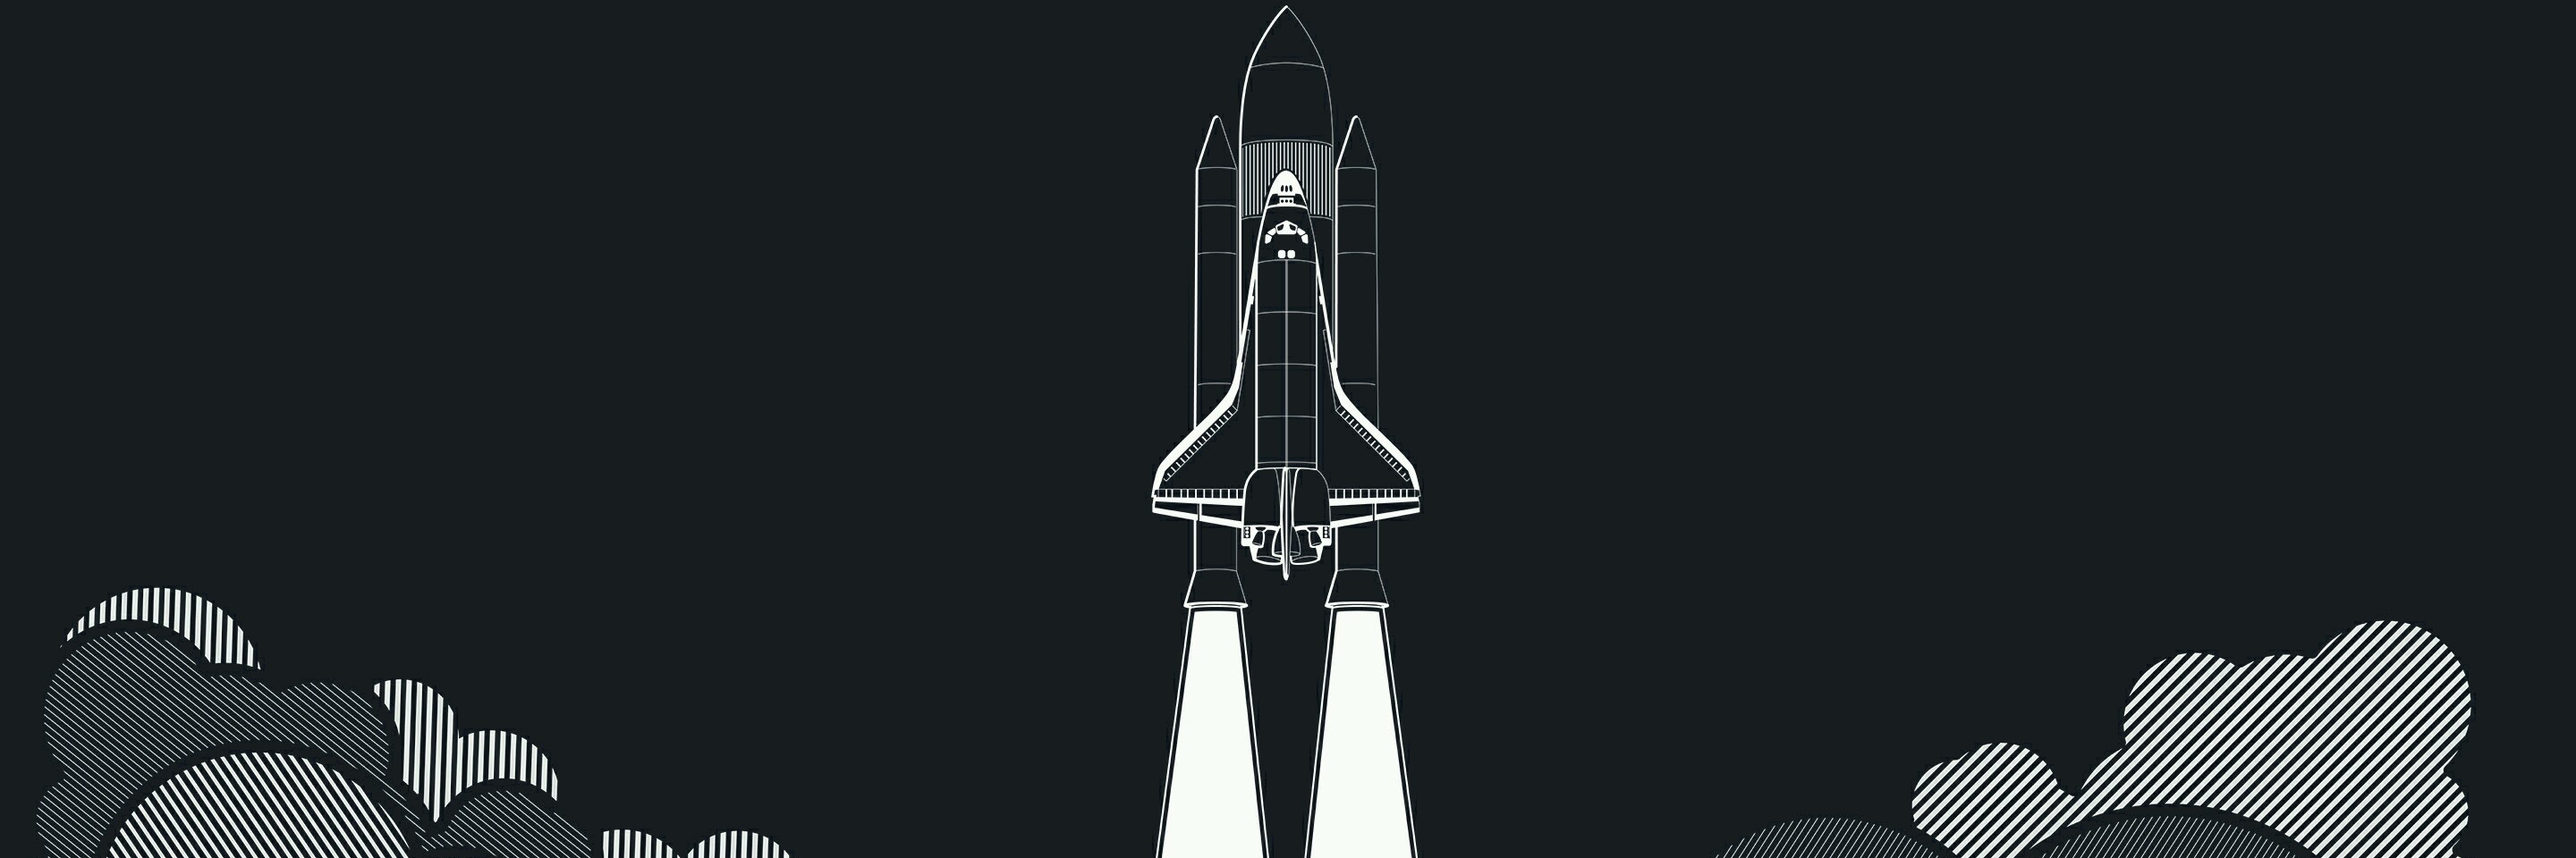
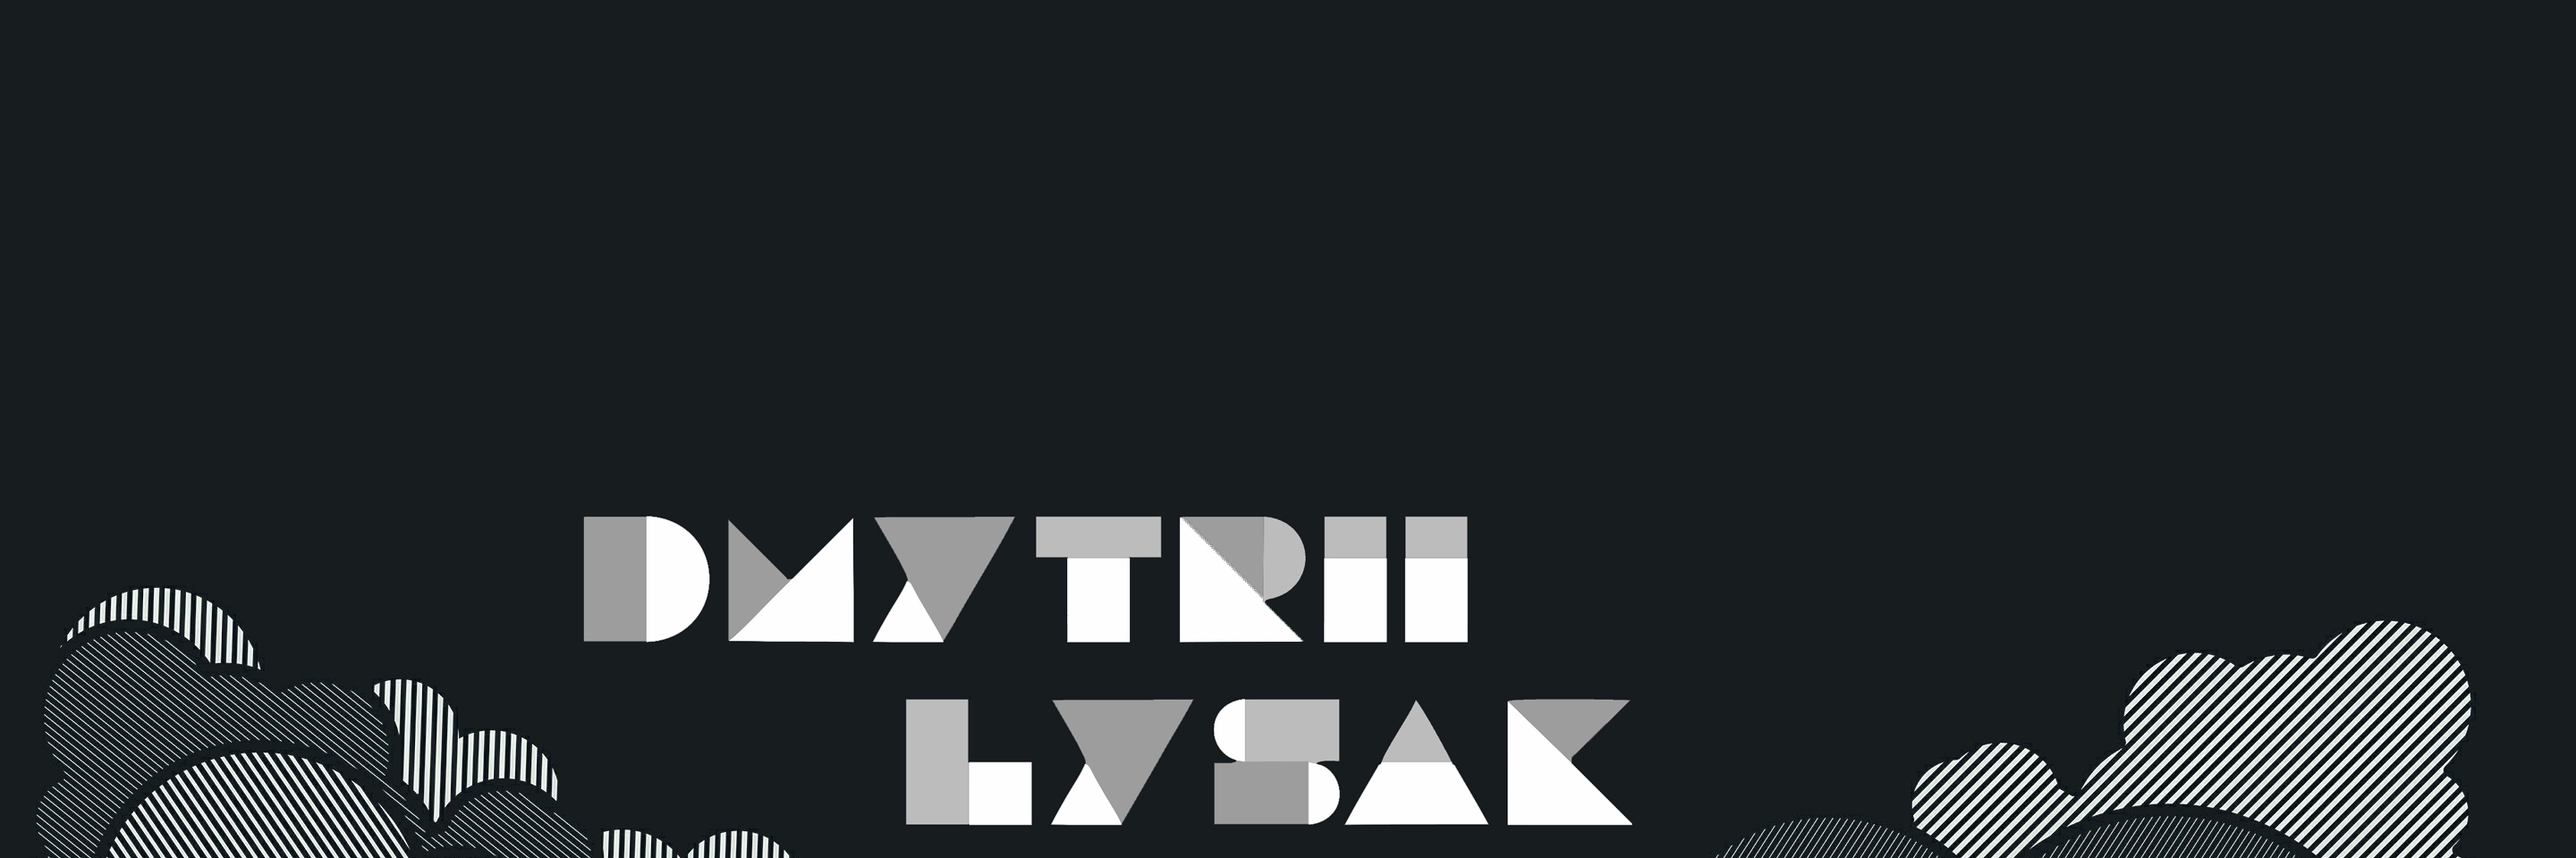
update 2017

Changed region(s): [[0.2188, 0.5, 0.6562, 1.0], [0.4688, 0.1562, 0.5312, 0.5]]

diff --git a/assets/vk.html b/assets/vk.html
@@ -1,0 +1,119 @@
+<!DOCTYPE html>
+<html>
+<head>
+    <title>IGR VkBirthdayExporter</title>
+    <style type="text/css">
+    #vkLogin{float: left}
+    #author{float: right}
+    #export{width: 100%}
+    </style>
+    <script src="http://vkontakte.ru/js/api/openapi.js" type="text/javascript"></script>
+    <script language="javascript">
+    var Base64 = {
+        // private property
[1 lines of base64/hex data omitted]
+
+        // public method for encoding
+        encode : function (input) {
+            var output = "";
+            var chr1, chr2, chr2raw, chr3, chr3raw, enc1, enc2, enc3, enc4;
+            var i = 0;
+
+            //input = Base64._utf8_encode(input);
+
+            while (i < input.length) {
+
+                    chr1 = input.charCodeAt(i++) & 0xFF;
+                    chr2 = isNaN(chr2raw = input.charCodeAt(i++)) ? NaN : (chr2raw & 0xFF);
+                    chr3 = isNaN(chr3raw = input.charCodeAt(i++)) ? NaN : (chr3raw & 0xFF);
+
+                    enc1 = chr1 >> 2;
+                    enc2 = ((chr1 & 3) << 4) | (chr2 >> 4);
+                    enc3 = ((chr2 & 15) << 2) | (chr3 >> 6);
+                    enc4 = chr3 & 63;
+
+                    if (isNaN(chr2)) {
+                            enc3 = enc4 = 64;
+                    } else if (isNaN(chr3)) {
+                            enc4 = 64;
+                    }
+
+                    output = output +
+                    this._keyStr.charAt(enc1) + this._keyStr.charAt(enc2) +
+                    this._keyStr.charAt(enc3) + this._keyStr.charAt(enc4);
+
+            }
+
+            return output;
+        }
+    }
+    function Init()
+    {
+        VK.init({apiId: 4962182});
+        VK.UI.button("vkLogin");
+    }
+    function icsEvent(info)
+    {
+        var s = 'BEGIN:VEVENT\n';
+        for(var i in info)
+            s += i+':'+info[i]+'\n';
+        s += 'END:VEVENT\n';
+        return s;
+    }
+    function zeroPrefix(num)
+    {
+        return (num < 10) ? '0' + num : num;
+    }
+    function authInfo(response)
+    {
+        if(!response.session) return;
+        
+        VK.api('friends.get', {fields: 'first_name,last_name,bdate'}, function(data){
+            var exportData = 'BEGIN:VCALENDAR\nPRODID:IGR VkFriendExporter\nVERSION:2.0\n';
+            
+            data = data.response;
+            for(var i in data)
+            if(data[i].bdate)
+            {
+                var info = data[i];
+                
+                var bdparts = info.bdate.split('.');
+                bdparts[0] = zeroPrefix(bdparts[0]);
+                bdparts[1] = zeroPrefix(bdparts[1]);
+                if(!bdparts[2]) bdparts[2] = 2000;
+                
+                var now = new Date();
+                exportData += icsEvent({
+                    DTSTART    : bdparts.reverse().join(''),
+                    RRULE      : 'FREQ=YEARLY',
+                    UID        : 'vk'+info.uid,
+                    DTSTAMP    : ''
+                                 +now.getUTCFullYear()
+                                 +zeroPrefix(now.getUTCMonth()+1)
+                                 +zeroPrefix(now.getUTCDate())
+                                 +'T'
+                                 +zeroPrefix(now.getUTCHours())
+                                 +zeroPrefix(now.getUTCMinutes())
+                                 +zeroPrefix(now.getUTCSeconds())
+                                 +'Z',
+                    SUMMARY    : info.first_name+' '+info.last_name,
+                    CLASS      : 'PRIVATE',
+                    URL        : 'http://vkontakte.ru/id'+info.uid,
+                    CATEGORIES : 'Friends,Birthdays',
+                    TRANSP     : 'TRANSPARENT'
+                });
+            }
+        
+            exportData += 'END:VCALENDAR\n';
+        
+            document.getElementById('export').value = exportData;
+        });
+    }
+    </script>
+</head>
+<body onload="Init()">
+    <div id="vkLogin" onclick="VK.Auth.login(authInfo, 2)">Fetch</div><div id="author">Author: <a href="mailto:dlysak@live.com">Dmytrii Lysak</a></div>
+<textarea id="export" name="export" rows="30"></textarea><br />
+<input type="button" onclick="location.href='data:application/force-download;base64,'+Base64.encode(document.getElementById('export').value)" value="Save (experimental)" />
+</body>
+</html>

diff --git a/assets/index.html b/assets/index.html
@@ -6,6 +6,7 @@
 -->
 <html>
 	<head>
+		<link href="/assets/css/images/l.ico" rel="shortcut icon">
 		<title>Dmytrii Lysak</title>
 		<meta charset="utf-8" />
 		<meta name="viewport" content="width=device-width, initial-scale=1" />
@@ -24,16 +25,18 @@
 				<!-- Header -->
 					<header id="header">
 						<h1>Dmytrii Lysak</h1>
-						<p>Hey! I’m a 20-year-old student from Ukraine (Vinnytsya), where I studying with a Bachelor’s in Vinnytsia National Technical University at Faculty of Information Technologies and Computer Engineering.</p>
+						<p>Hey! I’m a 21-year-old web developer from Ukraine (Vinnytsia), where I studying with a Master's in Vinnytsia National Technical University at Faculty of Information Technologies and Computer Engineering.</p>
 						<nav>
 							<ul>
-								<li><a href="https://vk.com/lysak" class="icon fa-vk"><span class="label">VK</span></a></li>
+								<li><a href="https://vk.me/lysak" class="icon fa-vk"><span class="label">VK</span></a></li>
+								<li><a href="https://fb.me/mobilux" class="icon fa-facebook"><span class="label">Facebook</span></a></li>
+								<li><a href="https://twitter.com/_lysak" class="icon fa-twitter"><span class="label">Twitter</span></a></li>
+								<li><a href="http://instagr.am/_dmytrii" class="icon fa-instagram"><span class="label">Instagram</span></a></li>
 								<li><a href="https://google.com/+DmytriiLysak" class="icon fa-google-plus"><span class="label">Google+</span></a></li>
-								<li><a href="http://fb.me/mobilux" class="icon fa-facebook"><span class="label">Facebook</span></a></li>
-								<li><a href="https://twitter.com/dslysak" class="icon fa-twitter"><span class="label">Twitter</span></a></li>
-								<li><a href="http://instagr.am/dslysak" class="icon fa-instagram"><span class="label">Instagram</span></a></li>
 								<li><a href="https://github.com/lysak" class="icon fa-github"><span class="label">Github</span></a></li>
-								<li><a href="mailto:me@lysak.xyz" class="icon fa-envelope-o"><span class="label">Email</span></a></li>
+								<li><a href="https://t.me/lysak" class="fa fa-paper-plane"><span class="label">Telegram</span></a></li>
+								<li><a href="https://www.linkedin.com/in/dslysak/" class="fa fa-linkedin"><span class="label">LinkedIn</span></a></li>
+								<li><a href="mailto:dlysak@live.com" class="icon fa-envelope-o"><span class="label">Email</span></a></li>
 							</ul>
 						</nav>
 					</header>

diff --git a/assets/assets/css/main.css b/assets/assets/css/main.css
@@ -1,4 +1,4 @@
-@import url("http://fonts.googleapis.com/css?family=Source+Sans+Pro:300,900");
+@import url('https://fonts.googleapis.com/css?family=Source+Sans+Pro:300,900');
 @import url("font-awesome.min.css");
 
 /*
@@ -9,7 +9,7 @@
 
 /* Reset */
 
-	html, body, div, span, applet, object, iframe,p, h1, h2, h3, h4, h5, h6, p, blockquote, pre, a, abbr, acronym, address, big, cite, code, del, dfn, em, img, ins, kbd, q, s, samp, small, strike, strong, sub, sup, tt, var, b, u, i, center, dl, dt, dd, ol, ul, li, fieldset, form, label, legend, table, caption, tbody, tfoot, thead, tr, th, td, article, aside, canvas, details, embed, figure, figcaption, footer, header, hgroup, menu, nav, output, ruby, section, summary, time, mark, audio, video {
+	html, body, div, span, applet, object, iframe, h1, h2, h3, h4, h5, h6, p, blockquote, pre, a, abbr, acronym, address, big, cite, code, del, dfn, em, img, ins, kbd, q, s, samp, small, strike, strong, sub, sup, tt, var, b, u, i, center, dl, dt, dd, ol, ul, li, fieldset, form, label, legend, table, caption, tbody, tfoot, thead, tr, th, td, article, aside, canvas, details, embed, figure, figcaption, footer, header, hgroup, menu, nav, output, ruby, section, summary, time, mark, audio, video {
 		margin: 0;
 		padding: 0;
 		border: 0;
@@ -522,7 +522,7 @@
 
 		#header p {
 			font-size: 1.25em;
-			margin: 0.75em 12em 0.25em 12em;
+			margin: 0.75em auto 0.25em auto;
 			opacity: 0.75;
 		}
 
